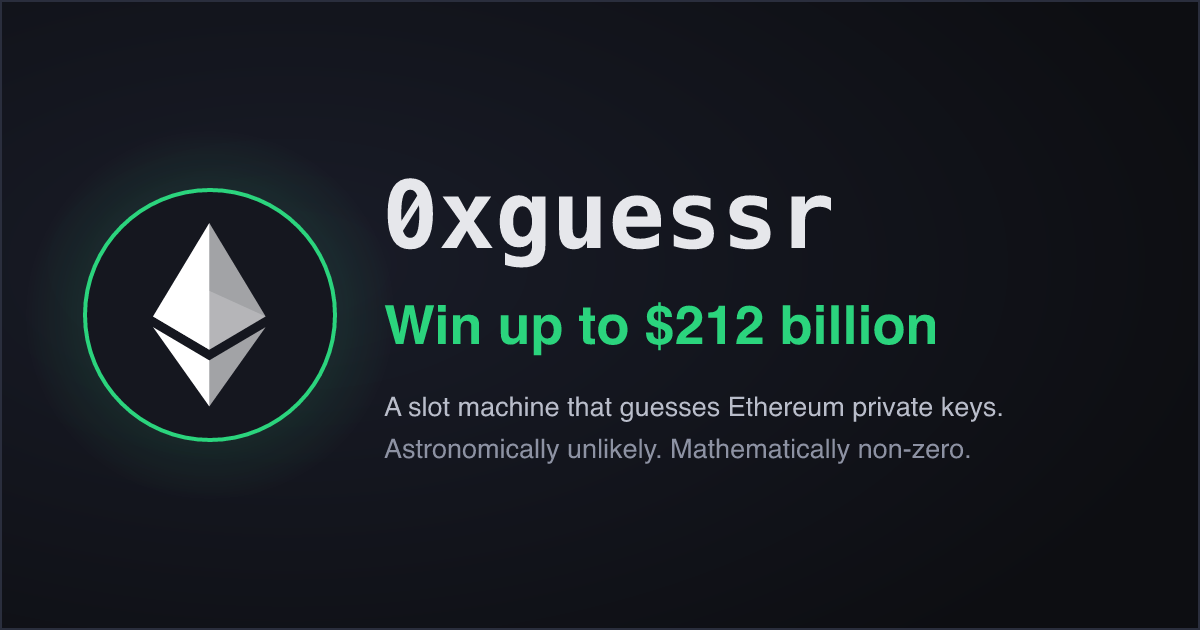
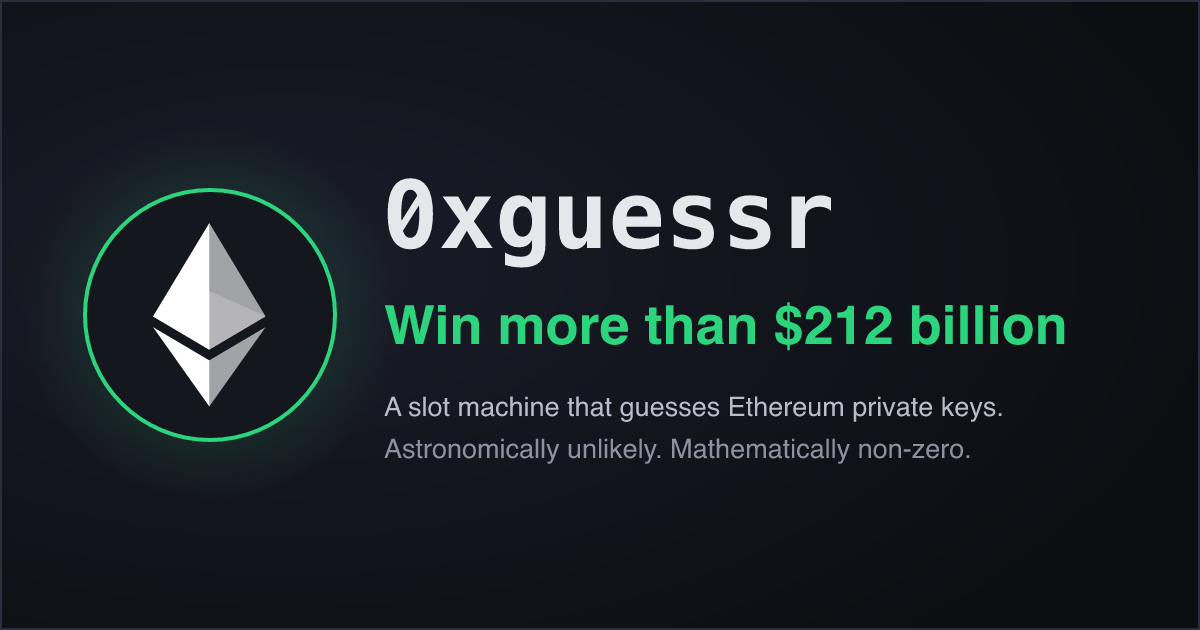
Match page title to tagline; clarify snapshot label
- Title + OG/Twitter now read "0xguessr | Win more than N billion
  dollars!", identical to the in-page tagline. jackpotBillions uses
  floor (so "more than" is truthful) and comma formatting.
- OG card wording: "Win up to" -> "Win more than".
- "Wallets in play" sub-label: "price snapshot:" -> "snapshot:"
  (the date is the wallet-data snapshot, not a price label).

The ETH price is already fetched live (Coinbase) at snapshot time by
the weekly workflow, so the USD figure reflects the price as of the
snapshot date.

Changed region(s): [[0.4008, 0.4825, 0.8942, 0.573]]

diff --git a/index.html b/index.html
@@ -4,7 +4,7 @@
     <meta charset="UTF-8" />
     <meta name="viewport" content="width=device-width, initial-scale=1.0" />
 
-    <title>0xguessr | Win up to $__JACKPOT_B__ billion!</title>
+    <title>0xguessr | Win more than __JACKPOT_B__ billion dollars!</title>
     <meta name="description" content="A slot machine that guesses Ethereum private keys. Astronomically unlikely. Mathematically non-zero." />
     <link rel="canonical" href="https://0xguessr.sanjaycj.com/" />
     <meta name="robots" content="index, follow" />
@@ -19,7 +19,7 @@
     <!-- Open Graph -->
     <meta property="og:type" content="website" />
     <meta property="og:site_name" content="0xguessr" />
-    <meta property="og:title" content="0xguessr | Win up to $__JACKPOT_B__ billion!" />
+    <meta property="og:title" content="0xguessr | Win more than __JACKPOT_B__ billion dollars!" />
     <meta property="og:description" content="A slot machine that guesses Ethereum private keys. Astronomically unlikely. Mathematically non-zero." />
     <meta property="og:url" content="https://0xguessr.sanjaycj.com/" />
     <meta property="og:image" content="https://0xguessr.sanjaycj.com/og.png" />
@@ -29,7 +29,7 @@
 
     <!-- Twitter -->
     <meta name="twitter:card" content="summary_large_image" />
-    <meta name="twitter:title" content="0xguessr | Win up to $__JACKPOT_B__ billion!" />
+    <meta name="twitter:title" content="0xguessr | Win more than __JACKPOT_B__ billion dollars!" />
     <meta name="twitter:description" content="A slot machine that guesses Ethereum private keys. Astronomically unlikely. Mathematically non-zero." />
     <meta name="twitter:image" content="https://0xguessr.sanjaycj.com/og.png" />
 

diff --git a/src/main.js b/src/main.js
@@ -104,7 +104,7 @@ function renderHeaderStats(stats) {
     'about 10⁷× harder than picking one specific atom in the universe';
   document.getElementById('stat-wallet-count').textContent = fmtNumber(stats.address_count);
   document.getElementById('stat-snapshot').textContent =
-    `price snapshot: ${stats.price_snapshot_date ?? '—'}`;
+    `snapshot: ${stats.price_snapshot_date ?? '—'}`;
 }
 
 function shorten(s, n = 8) {

diff --git a/vite.config.js b/vite.config.js
@@ -20,7 +20,7 @@ function jackpotHtmlPlugin() {
         );
         billions = jackpotBillions(meta) || billions;
       } catch { /* keep fallback */ }
-      return html.replaceAll('__JACKPOT_B__', String(billions));
+      return html.replaceAll('__JACKPOT_B__', billions.toLocaleString('en-US'));
     },
   };
 }
